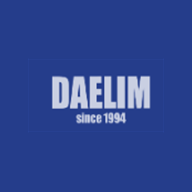
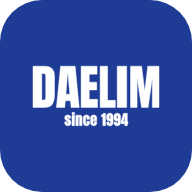
feat: 대림 로고를 선명한 벡터로 교체 (밝은 화면 기본색·다크 모드 흰색, 아이콘은 기본색 바탕)

diff --git a/src/components/Header.js b/src/components/Header.js
@@ -81,8 +81,10 @@ export const renderHeader = (container, args) => {
 
                 <!-- 대림 로고 = 홈 버튼 (별도 홈 버튼 없음) -->
                 <div class="flex items-center gap-3 cursor-pointer select-none group" id="btn-header-home-logo" title="홈(대시보드)으로 이동" role="button" tabindex="0" aria-label="홈으로 이동">
-                    <div class="h-12 sm:h-14 px-2.5 rounded-xl shadow-md border border-slate-200 overflow-hidden bg-white flex items-center justify-center group-hover:scale-105 group-hover:border-blue-400 group-hover:shadow-lg transition transform">
-                        <img src="./logo.png" alt="대림 로고 (홈)" class="h-9 sm:h-11 w-auto object-contain" />
+                    <div class="h-12 sm:h-14 px-1 flex items-center justify-center group-hover:scale-105 transition transform">
+                        <!-- 밝은 화면 = 기본색 로고, 다크 모드 = 흰 로고 (index.html .logo-on-light/.logo-on-dark) -->
+                        <img src="./logo.svg" alt="대림 로고 (홈)" class="logo-on-light h-9 sm:h-11 w-auto object-contain" />
+                        <img src="./logo-white.svg" alt="대림 로고 (홈)" class="logo-on-dark h-9 sm:h-11 w-auto object-contain" />
                     </div>
                 <div>
                     <div class="flex items-center gap-2">

diff --git a/index.html b/index.html
@@ -3,7 +3,7 @@
 <head>
     <meta charset="UTF-8">
     <meta name="viewport" content="width=device-width, initial-scale=1.0, maximum-scale=1.0, user-scalable=no">
-    <meta name="theme-color" content="#1e3a8a">
+    <meta name="theme-color" content="#1E3C96">
     <meta name="mobile-web-app-capable" content="yes">
     <meta name="apple-mobile-web-app-capable" content="yes">
     <meta name="apple-mobile-web-app-status-bar-style" content="black-translucent">
@@ -29,6 +29,11 @@
     <style>
         body { font-family: 'Noto Sans KR', sans-serif; transition: background-color 0.2s ease, color 0.2s ease; }
         
+        /* 대림 로고: 밝은 화면(light·warm) = 기본색 로고, 다크 모드 = 흰 로고 */
+        .logo-on-dark { display: none; }
+        [data-theme="dark"] .logo-on-light { display: none; }
+        [data-theme="dark"] .logo-on-dark { display: block; }
+
         /* 테마별 커스텀 스타일 (Dark / Warm / Light) */
         [data-theme="dark"] body { background-color: #0b0f19; color: #f1f5f9; }
         [data-theme="dark"] #header-container,

diff --git a/src/components/LoginView.js b/src/components/LoginView.js
@@ -5,8 +5,8 @@ const escapeHtml = (s) => String(s ?? '').replace(/[&<>"']/g, c => ({ '&': '&amp
 
 const BRAND_HEADER = `
     <div class="bg-gradient-to-r from-blue-600 via-indigo-600 to-blue-700 text-white p-6 sm:p-8 text-center relative">
-        <div class="h-16 px-3 mx-auto rounded-2xl bg-white flex items-center justify-center shadow-inner mb-3 w-fit">
-            <img src="./logo.png" alt="대림" class="h-11 w-auto object-contain" />
+        <div class="h-16 mx-auto flex items-center justify-center mb-3 w-fit">
+            <img src="./logo-white.svg" alt="대림" class="h-14 w-auto object-contain" />
         </div>
         <h1 class="text-xl sm:text-2xl font-black tracking-tight">대림오일 스마트 WMS</h1>
         <p class="text-xs text-blue-100 mt-1">자재·재고·생산·수불 통합 관리 시스템</p>

diff --git a/src/components/Sidebar.js b/src/components/Sidebar.js
@@ -221,7 +221,7 @@ export const renderSidebar = (container, { currentTab = 'home', onTabChange }) =
             <div class="p-3.5 border-b border-slate-800 flex items-center justify-between">
                 <div class="flex items-center gap-3 overflow-hidden cursor-pointer" id="btn-sidebar-logo">
                     <div class="h-9 px-1.5 flex items-center justify-center flex-shrink-0">
-                        <img src="./logo-white.png" alt="대림" class="h-7 w-auto object-contain" />
+                        <img src="./logo-white.svg" alt="대림" class="h-7 w-auto object-contain" />
                     </div>
                     ${!isCollapsed ? `
                         <div class="truncate">

diff --git a/CLAUDE.md b/CLAUDE.md
@@ -72,6 +72,7 @@ npm run preview
 - 화면 틀(PC 16:9, 1920×1080 기준): 본문은 `max-w-[1680px]`(사이드바 240px를 뺀 폭). 상단 메뉴 줄(`Header.js` `#nav-row`)은 한 줄 가로 스크롤(좌우 화살표·휠)이고, 왼쪽 사이드바 폭(`--sidebar-w`) 칸 오른쪽 끝에 PC용 ☰(`#btn-sidebar-hover`)가 있습니다. 사이드바(`Sidebar.js`)는 PC에서 '고정'(sticky, `daelim_sidebar_pinned`) 또는 '숨김'이며, 숨김이면 ☰에 커서를 올릴 때 머리글 아래(`--header-h`)에서 위→아래로 펼쳐지고(인라인 transform scaleY) 벗어나면 위로 접힙니다. ☰ 클릭은 고정 ↔ 숨김(`window.__sidebarTogglePin`). 스마트폰은 머리글 왼쪽 ☰로 여는 서랍 그대로입니다.
 - Tailwind는 빌드 파이프라인이 아니라 `index.html`의 CDN 스크립트로 로드됩니다. 폼텍 라벨 인쇄용 CSS도 `index.html`에 있습니다.
 - 화면 모드(`daelim_theme`: light·dark·warm, `html/body[data-theme]`): 다크 모드는 `index.html`의 기본 규칙 + `services/darkTheme.js`(`injectDarkThemeCss`, main.js에서 한 번)가 Tailwind 밝은 색 클래스(bg-white·bg-*-50/100/200·border-*-100~300·text-*-600~900·from/via/to 그라데이션·hover·기본 테두리색)를 색표로 한꺼번에 덮습니다(클래스 토큰 선택자, `head` 맨 앞에 넣어 색 있는 테두리 클래스는 그대로). 새 화면은 Tailwind 색 클래스를 쓰면 다크 모드가 자동으로 맞고, 인라인 style 색은 덮이지 않으니 피하세요. 흰 종이로 보여야 하는 앱 안 미리보기는 `class="theme-paper"`(예: 전표 발행기 미리보기), Chart.js 그래프는 그리기 전에 `applyChartTheme(Chart)`를 부르세요. 포장작업표준서(iframe)는 A4 편집기라 밝은 화면 그대로입니다.
+- 로고(`public/`): `logo.svg`(기본색 #1E3C96, 바탕 투명, 홈페이지 로고를 Anton 글꼴 윤곽으로 다시 그린 벡터) · `logo-white.svg`(흰색, 어두운 바탕용) · `icon.svg`(기본색 바탕 + 흰 로고). 화면에서는 밝은 화면 `.logo-on-light` / 다크 모드 `.logo-on-dark`(index.html)로 바꿔 보여 줍니다. `logo.png`·`logo-white.png`(1600px)와 `icon-192/512`·`icon-maskable-512`·`apple-touch-icon`·`favicon-48` PNG는 SVG를 헤드리스 Chrome으로 찍어 만든 것이며, 인쇄·캔버스(`docMarks.js`)는 PNG를 씁니다.
 - **새 탭 추가 시** 함께 수정할 곳:
   - `main.js`의 `TAB_MODULES`, `renderTabContent`(탭 → render 함수)와 탭 라벨
   - 사용자 매뉴얼(`src/data/manualContent.js`)에 그 기능의 장
